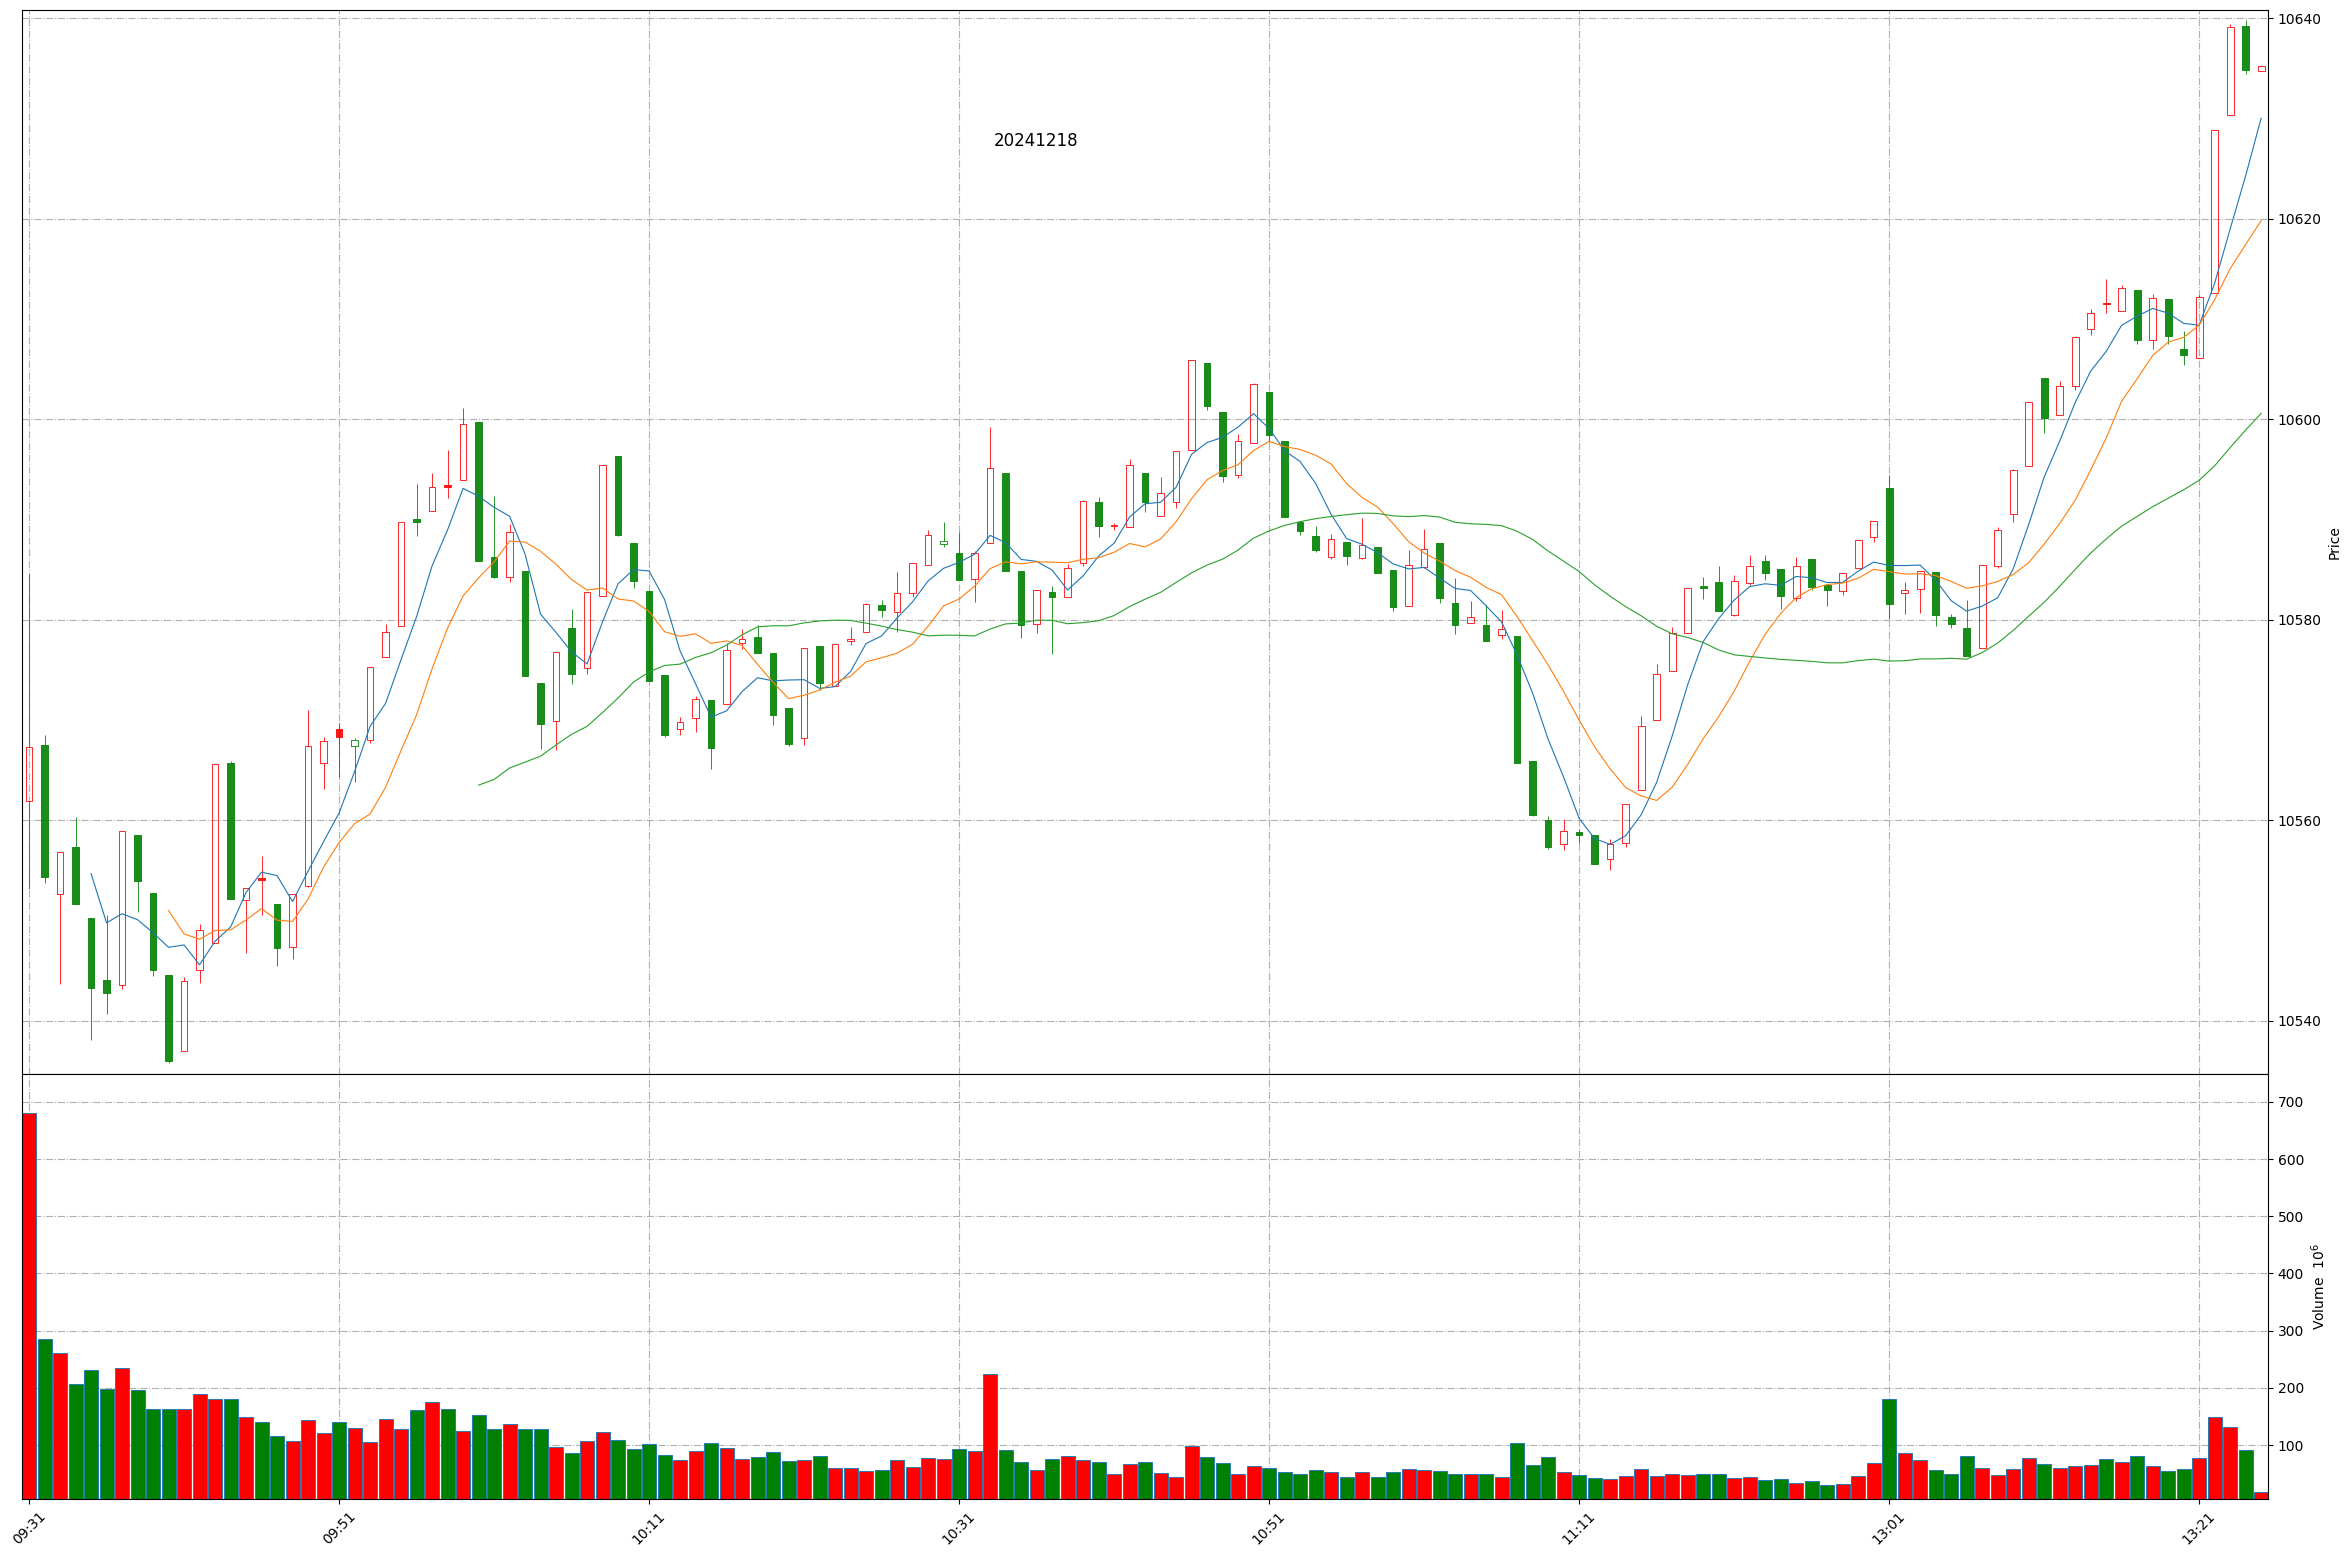
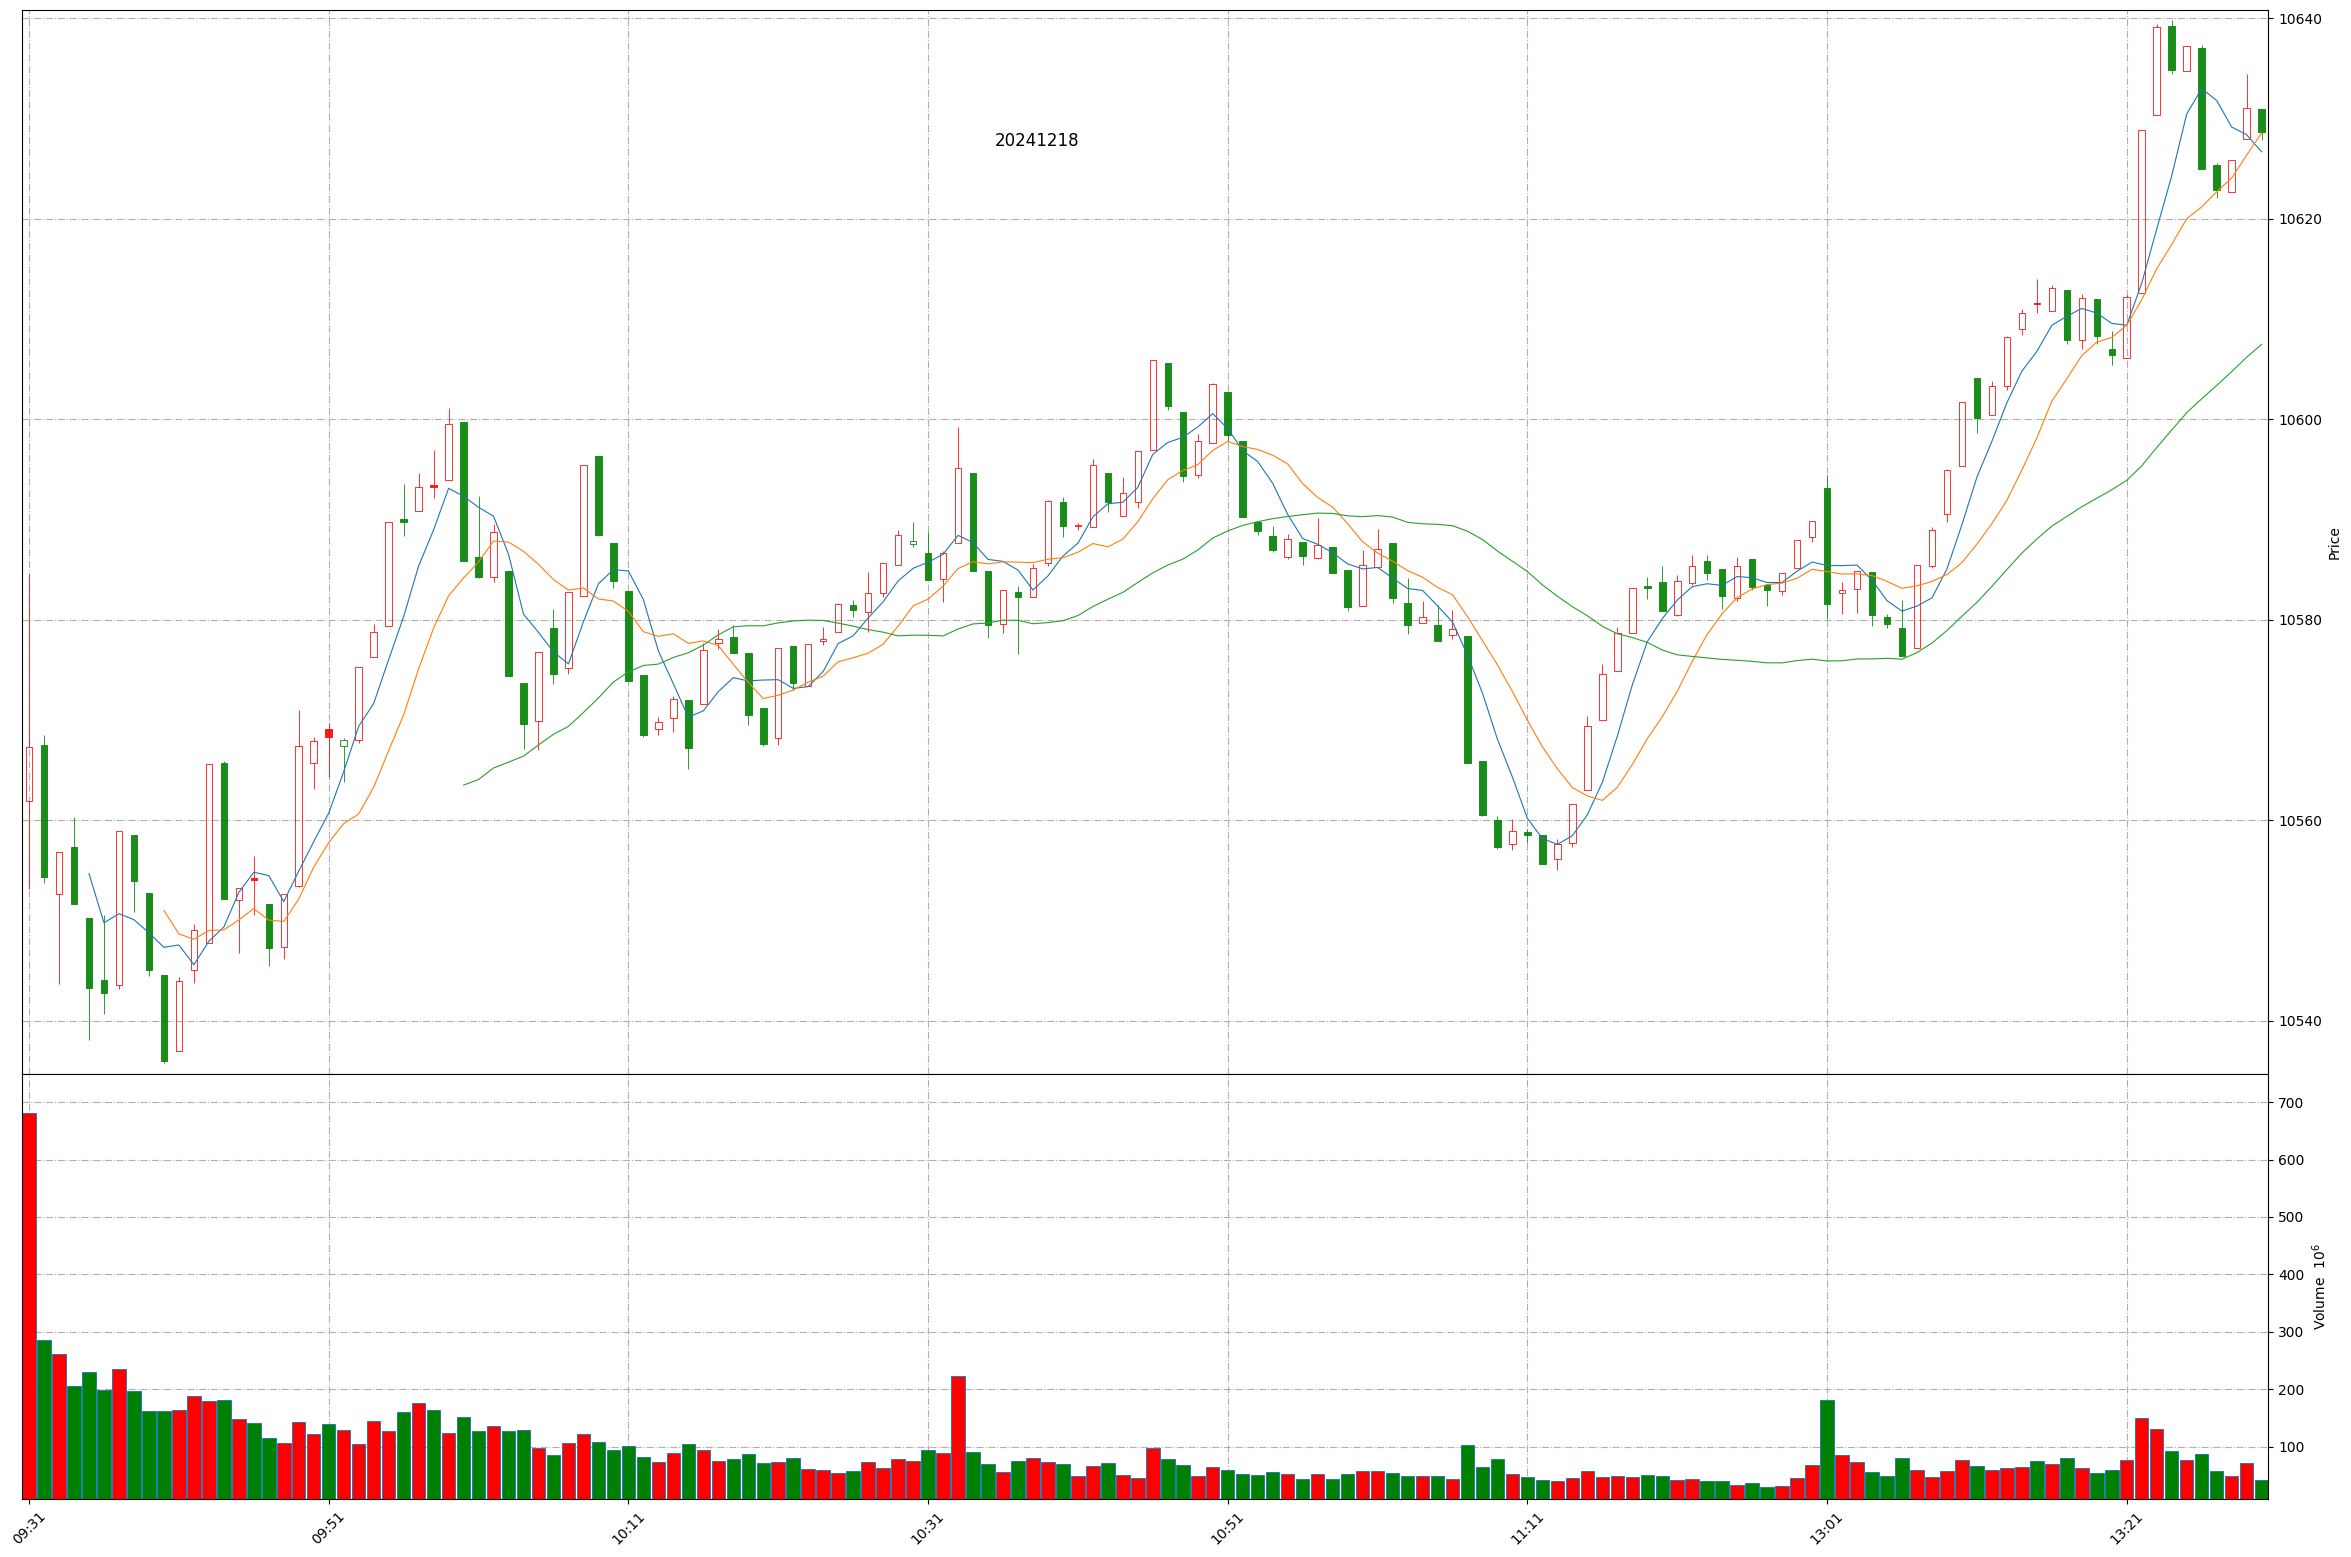
Github action update at 2024-12-18 13:30:01.

diff --git a/README.md b/README.md
@@ -1,11 +1,11 @@
 
 # Daily-A-share-market-quotes 每日 A 股指数（5min 更新）- 20241218
 
-### 上证指数 20241218 13:24
+### 上证指数 20241218 13:30
 ![](./fig/2024/12/20241218-sh000001.png)
 
-### 深证成指 20241218 13:24
+### 深证成指 20241218 13:30
 ![](./fig/2024/12/20241218-sz399001.png)
 
-### 北证50 20241218 13:24
+### 北证50 20241218 13:30
 ![](./fig/2024/12/20241218-bj899050.png)
